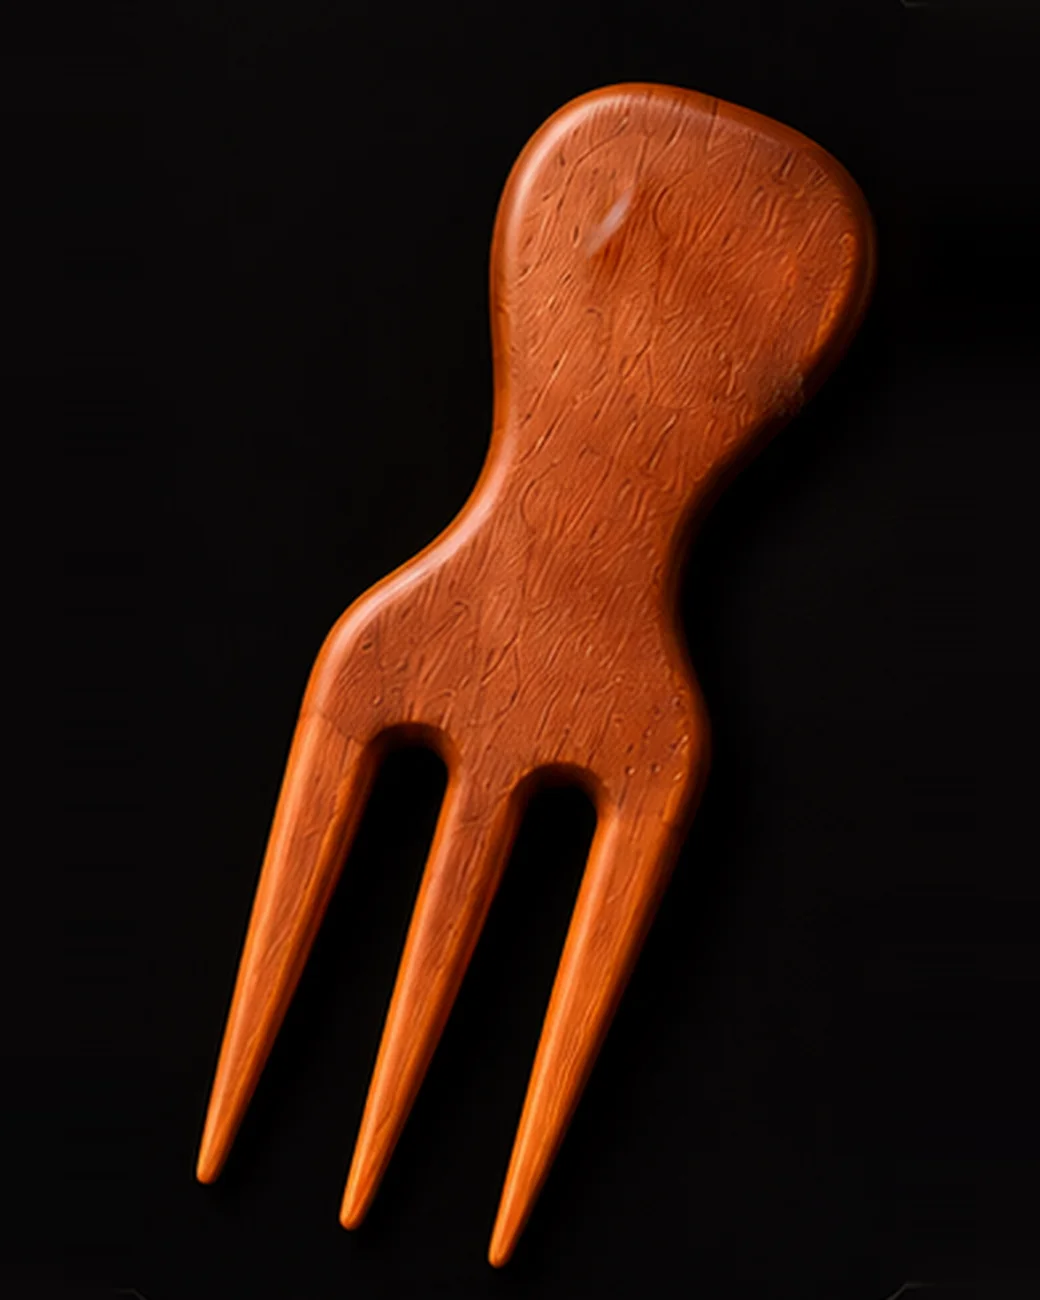
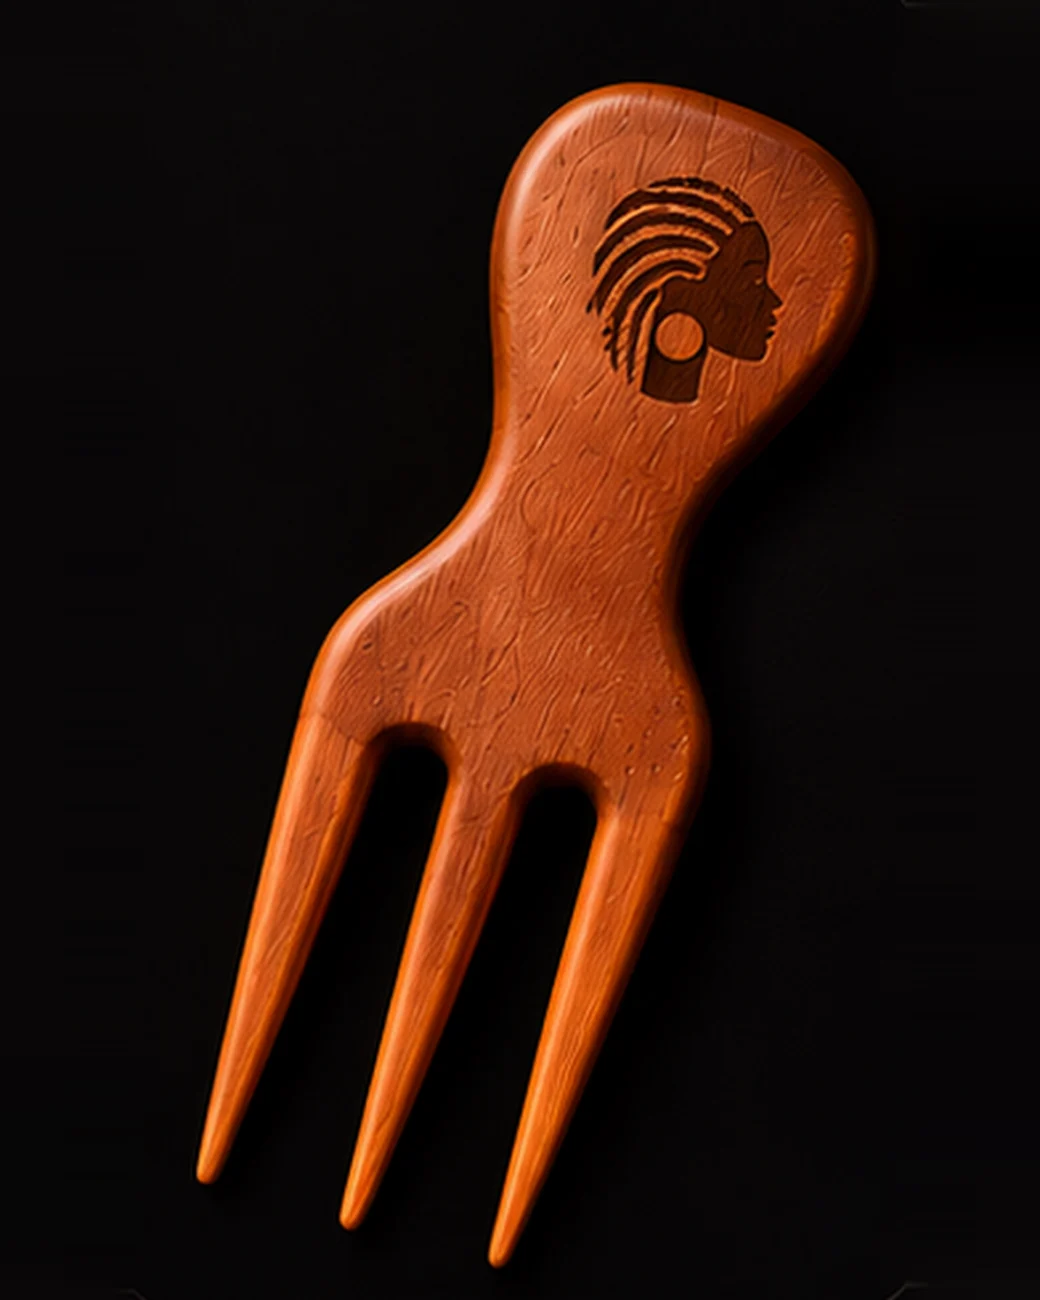
Ojú Gbooro: braided head mark, and restore the engraving on the comb
The braided head from the brand board, traced to vector, now leads the page
header, the homepage project card and the page favicon. The head engraved
on the òòyà comb was wrongly retouched out; it is back.

Claude-Session: https://claude.ai/code/session_01YLqUEQuXeiZPQu1JdJBMmC

Changed region(s): [[0.5538, 0.1231, 0.7692, 0.3385]]

diff --git a/oju-gbooro/index.html b/oju-gbooro/index.html
@@ -19,6 +19,7 @@
 <meta name="twitter:title" content="Ojú Gbooro · Yoruba hair heritage">
 <meta name="twitter:description" content="A living record of Yoruba hair craft, its practitioners, tools, techniques and people.">
 <meta name="twitter:image" content="https://pennio.agency/og-cover.jpg">
+<link rel="icon" href="/oju-gbooro/mark.svg" type="image/svg+xml">
 <link rel="icon" href="/favicon.ico" sizes="any">
 <link rel="preload" href="/fonts/inter-600.woff2" as="font" type="font/woff2" crossorigin>
 <style>/* Inter, hosted on this domain so it loads on slow or blocked networks. */@font-face{font-family:'Inter';font-style:normal;font-weight:300;font-display:swap;src:url('/fonts/inter-300.woff2') format('woff2')}@font-face{font-family:'Inter';font-style:normal;font-weight:400;font-display:swap;src:url('/fonts/inter-400.woff2') format('woff2')}@font-face{font-family:'Inter';font-style:normal;font-weight:500;font-display:swap;src:url('/fonts/inter-500.woff2') format('woff2')}@font-face{font-family:'Inter';font-style:normal;font-weight:600;font-display:swap;src:url('/fonts/inter-600.woff2') format('woff2')}@font-face{font-family:'Inter';font-style:normal;font-weight:700;font-display:swap;src:url('/fonts/inter-700.woff2') format('woff2')}@font-face{font-family:'Inter';font-style:normal;font-weight:800;font-display:swap;src:url('/fonts/inter-800.woff2') format('woff2')}</style>
@@ -36,7 +37,8 @@ body{background:var(--bg);color:var(--text);font-family:Inter,system-ui,sans-ser
 .part .end{fill:var(--bone)}
 .page>*:not(.part){position:relative;z-index:1}
 .top{display:flex;justify-content:space-between;align-items:center;min-height:68px}
-.brand{font-weight:600;font-size:14px;letter-spacing:.02em}
+.brand{font-weight:600;font-size:14px;letter-spacing:.02em;display:flex;align-items:center;gap:10px}
+.brand svg{height:34px;width:auto;flex:none}.brand .h{fill:var(--text)}.brand .k{fill:var(--bg)}.brand .e{fill:var(--orange)}
 .top a{color:var(--mute);font-size:13px;text-decoration:none;min-height:44px;display:inline-flex;align-items:center}
 .sec{padding:0 22px}
 .k{font-size:11px;letter-spacing:.18em;text-transform:uppercase;color:var(--wood);font-weight:600;display:flex;gap:10px;align-items:center}
@@ -100,7 +102,7 @@ footer a{color:var(--text)}
     <ellipse cx="-61" cy="0" rx="7.5" ry="6.6"/>
   </g><circle class="end" id="pEnd" r="4"/></svg>
 
-  <div class="top" data-line="start"><div class="brand">Ojú Gbooro</div><a href="#archive">The archive ↓</a></div>
+  <div class="top" data-line="start"><div class="brand"><svg viewBox="0 0 131.4 157.1" aria-hidden="true"><path class="h" fill-rule="evenodd" d="M9.8 71.0Q9.6 69.9 8.3 70.9Q7.0 71.9 4.5 76.6Q2.0 81.2 2.1 83.4Q2.1 85.6 3.0 89.4Q3.9 93.1 4.4 93.8Q4.9 94.5 5.1 94.4Q5.4 94.2 5.3 91.2Q5.2 88.2 6.2 86.0Q7.1 83.8 7.0 81.9Q6.9 80.1 7.3 78.4Q7.8 76.6 8.9 74.4Q10.0 72.1 9.8 71.0ZM44.3 12.3Q43.1 12.4 41.7 12.8Q40.2 13.2 38.9 14.3Q37.6 15.4 34.8 15.4Q32.0 15.4 30.2 16.7Q28.5 18.0 25.9 18.9Q23.2 19.9 22.3 21.6Q21.4 23.2 19.0 23.8Q16.6 24.2 15.7 24.9Q14.8 25.5 13.8 27.2Q12.9 28.9 13.2 30.0Q13.6 31.1 12.0 31.8Q10.4 32.4 9.2 33.8Q8.0 35.1 7.5 38.0Q7.0 40.9 5.9 43.6Q4.8 46.4 5.2 46.3Q5.8 46.2 7.3 43.8Q8.9 41.4 10.4 39.8Q12.0 38.2 12.7 36.9Q13.4 35.5 15.3 34.3Q17.2 33.1 20.1 30.2Q23.0 27.2 26.1 25.9Q29.1 24.6 30.5 23.3Q31.9 22.0 34.3 21.7Q36.8 21.4 38.9 20.2Q41.1 19.1 42.8 19.3Q44.5 19.5 46.4 18.6Q48.2 17.6 50.6 18.1Q53.0 18.6 54.0 18.3Q55.0 18.0 58.4 18.1Q61.8 18.1 63.2 19.1Q64.6 20.0 66.6 20.1Q68.6 20.1 70.2 21.2Q71.9 22.2 73.7 22.1Q75.5 22.0 77.0 23.4Q78.5 24.9 82.5 27.0Q86.5 29.1 89.2 32.1Q91.9 35.0 91.9 36.5Q92.0 38.0 91.1 39.1Q90.1 40.1 88.8 40.3Q87.5 40.5 85.5 39.9Q83.5 39.2 80.2 37.4Q76.9 35.5 75.9 35.4Q74.9 35.4 73.8 34.4Q72.8 33.5 71.1 33.4Q69.4 33.4 68.0 32.3Q66.6 31.2 64.7 31.5Q62.8 31.8 60.6 30.9Q58.5 30.1 57.2 30.7Q55.9 31.2 54.4 30.8Q52.9 30.4 51.1 31.0Q49.2 31.6 47.6 31.4Q46.0 31.2 42.1 32.2Q38.2 33.2 36.9 34.1Q35.6 34.9 33.3 35.5Q31.0 36.1 29.8 37.3Q28.5 38.5 26.4 38.9Q24.4 39.2 23.0 41.1Q21.6 43.0 19.3 44.2Q17.0 45.5 15.9 47.4Q14.9 49.4 12.9 50.6Q11.0 51.9 10.6 53.5Q10.2 55.1 8.8 56.5Q7.4 57.9 5.2 61.1Q3.1 64.2 2.8 67.2Q2.4 70.1 2.8 70.9Q3.2 71.6 3.8 71.6Q4.4 71.6 8.2 67.9Q12.0 64.2 15.0 59.9Q18.0 55.6 22.0 51.9Q26.0 48.2 27.8 47.5Q29.6 46.8 31.0 45.4Q32.4 44.1 34.7 43.6Q37.0 43.0 39.0 41.8Q41.0 40.5 42.6 40.6Q44.2 40.8 45.6 39.9Q47.0 39.0 48.8 39.2Q50.6 39.5 52.0 39.1Q53.4 38.6 55.3 38.9Q57.2 39.1 58.7 38.8Q60.1 38.5 61.2 39.3Q62.4 40.1 64.2 39.9Q66.0 39.6 67.4 40.4Q68.9 41.2 72.3 42.2Q75.8 43.1 76.8 44.1Q77.9 45.0 78.8 45.2Q79.8 45.5 81.2 47.1Q82.6 48.8 82.8 49.7Q83.0 50.6 82.1 51.8Q81.1 52.9 79.9 53.1Q78.8 53.4 70.6 51.4Q62.5 49.5 57.2 49.7Q51.9 49.9 48.8 50.7Q45.8 51.5 44.1 52.3Q42.5 53.1 41.3 53.2Q40.1 53.2 38.4 54.7Q36.8 56.1 35.1 56.5Q33.5 56.9 32.7 58.2Q31.9 59.5 29.8 60.9Q27.6 62.4 26.8 63.8Q25.9 65.2 23.4 67.8Q20.9 70.2 20.4 72.1Q19.9 73.9 18.2 75.9Q16.6 78.0 16.6 80.1Q16.5 82.2 14.8 84.4Q13.0 86.5 13.4 88.4Q13.8 90.2 12.4 92.4Q11.0 94.6 11.4 96.1Q11.8 97.5 10.4 100.3Q9.1 103.1 9.0 105.7Q8.9 108.2 9.3 109.8Q9.8 111.2 10.2 111.6Q10.8 112.0 12.1 108.3Q13.4 104.6 14.1 104.4Q14.8 104.1 14.3 110.8Q13.9 117.4 15.1 118.9Q16.2 120.4 15.6 123.1Q14.9 125.8 16.7 128.9Q18.5 132.0 19.5 132.8Q20.5 133.5 20.2 129.8Q19.9 126.0 19.1 124.0Q18.2 122.0 18.6 119.6Q19.0 117.2 18.4 114.8Q17.9 112.2 18.4 110.9Q18.9 109.6 18.4 107.4Q17.9 105.1 18.2 104.1Q18.6 103.1 18.7 100.3Q18.8 97.5 19.4 96.0Q20.1 94.5 20.1 93.3Q20.1 92.1 21.0 89.0Q21.9 85.9 24.2 81.1Q26.5 76.2 28.1 73.9Q29.6 71.6 31.3 70.2Q33.0 68.9 34.2 67.2Q35.4 65.6 36.6 65.1Q37.9 64.5 39.5 62.9Q41.1 61.4 42.6 61.1Q44.0 60.9 45.2 60.1Q46.4 59.2 49.3 58.2Q52.2 57.1 53.7 57.2Q55.1 57.4 57.8 56.8Q60.4 56.2 61.6 56.8Q62.9 57.2 64.5 57.2Q66.1 57.1 68.2 58.1Q70.4 59.0 71.8 59.2Q73.1 59.4 74.7 61.4Q76.2 63.5 75.8 64.6Q75.4 65.6 74.6 66.2Q73.9 66.9 72.2 67.1Q70.6 67.2 68.1 66.8Q65.6 66.2 64.1 66.8Q62.5 67.4 60.4 66.6Q58.2 65.8 56.3 66.1Q54.4 66.4 52.8 67.6Q51.2 68.9 50.3 70.4Q49.4 71.9 49.1 72.0Q48.8 72.1 48.2 71.4Q47.6 70.6 47.2 70.7Q46.9 70.8 42.1 75.0Q37.4 79.2 37.1 80.6Q36.9 81.9 34.9 83.8Q33.0 85.8 32.9 87.0Q32.8 88.2 31.3 90.6Q29.9 92.9 29.8 94.2Q29.8 95.5 28.9 97.2Q28.0 98.9 28.1 100.4Q28.1 101.9 27.6 103.1Q27.0 104.4 27.2 105.9Q27.4 107.5 26.6 109.8Q25.9 112.1 26.4 113.9Q27.0 115.8 26.4 118.6Q25.8 121.4 26.5 123.0Q27.2 124.6 27.1 127.7Q26.9 130.8 27.6 133.9Q28.2 137.0 28.2 139.2Q28.1 141.5 29.1 142.8Q30.1 144.1 32.4 145.4Q34.6 146.8 34.7 144.6Q34.8 142.5 34.1 141.2Q33.5 139.9 33.7 138.0Q33.9 136.1 33.1 134.4Q32.4 132.8 32.7 130.0Q33.0 127.2 32.4 125.9Q31.8 124.6 32.3 122.2Q32.9 119.9 32.2 118.2Q31.6 116.5 31.8 115.3Q31.9 114.1 32.4 113.1Q33.0 112.1 32.9 109.5Q32.8 106.9 33.4 105.6Q34.1 104.4 34.1 102.5Q34.1 100.6 35.2 98.6Q36.4 96.5 36.8 94.6Q37.1 92.6 40.9 87.5Q44.6 82.4 45.2 82.2Q45.8 82.1 46.1 83.0Q46.4 83.9 44.3 88.9Q42.2 93.9 41.4 100.1Q40.5 106.4 40.9 109.4Q41.2 112.5 39.9 123.1Q38.5 133.8 38.2 141.2Q38.0 148.6 40.9 150.2Q43.9 151.8 48.4 153.1Q52.9 154.4 57.0 154.8Q61.1 155.1 65.9 154.8Q70.6 154.5 73.0 153.9Q75.4 153.4 75.8 152.8Q76.2 152.2 76.4 147.9Q76.5 143.6 77.2 138.8Q77.9 133.9 79.7 127.4Q81.5 121.0 79.4 119.2Q77.2 117.5 74.7 120.6Q72.1 123.8 68.7 125.5Q65.2 127.2 61.5 127.4Q57.8 127.6 54.8 126.5Q51.8 125.4 49.1 122.9Q46.4 120.4 45.3 118.4Q44.2 116.5 43.8 114.6Q43.2 112.8 43.3 109.9Q43.4 107.1 44.2 104.8Q45.1 102.4 46.2 100.8Q47.2 99.1 49.1 97.3Q51.0 95.5 52.9 94.4Q54.9 93.4 57.1 92.9Q59.4 92.4 62.9 92.9Q66.4 93.4 69.1 94.9Q71.8 96.4 73.5 98.2Q75.2 100.1 76.5 102.7Q77.8 105.2 78.1 108.5Q78.4 111.8 79.7 112.9Q81.0 114.1 85.4 116.1Q89.9 118.1 96.2 120.1Q102.6 122.0 106.1 122.6Q109.5 123.2 111.9 123.1Q114.4 123.0 115.8 122.5Q117.2 122.0 118.5 120.8Q119.8 119.6 120.3 118.1Q120.9 116.5 120.6 112.7Q120.2 108.9 120.8 108.1Q121.4 107.4 123.0 106.7Q124.6 106.0 125.1 105.1Q125.5 104.1 125.2 103.1Q124.9 102.1 124.3 101.6Q123.8 101.1 121.0 101.3Q118.2 101.5 117.8 101.2Q117.2 100.9 117.7 100.2Q118.1 99.6 121.5 98.9Q124.9 98.2 125.6 97.5Q126.2 96.8 126.1 95.6Q126.0 94.5 124.6 92.2Q123.1 90.0 122.0 89.6Q120.9 89.2 120.9 88.7Q120.9 88.1 122.2 86.9Q123.5 85.8 124.7 86.1Q125.9 86.4 126.8 86.1Q127.6 85.9 128.3 85.1Q129.0 84.4 129.2 83.3Q129.4 82.2 128.8 81.2Q128.2 80.1 124.6 76.5Q121.0 72.9 119.8 70.7Q118.5 68.5 118.4 66.9Q118.4 65.2 119.4 59.9Q120.4 54.6 119.6 49.0Q118.8 43.4 116.8 38.8Q114.8 34.1 112.8 31.2Q110.8 28.4 109.6 27.4Q108.5 26.5 108.3 25.0Q108.1 23.5 107.4 22.4Q106.6 21.4 105.7 20.9Q104.8 20.4 104.0 21.7Q103.2 23.0 104.2 25.5Q105.1 28.0 102.1 29.1Q99.0 30.2 90.9 25.8Q82.9 21.4 81.4 19.8Q79.9 18.2 78.9 17.8Q77.9 17.4 76.5 17.6Q75.1 17.8 72.9 16.1Q70.6 14.4 68.8 14.2Q66.9 14.1 64.8 13.1Q62.8 12.0 61.8 12.1Q60.9 12.1 60.3 12.8Q59.8 13.5 56.6 12.4Q53.4 11.4 52.5 11.4Q51.6 11.4 50.0 12.2Q48.4 13.1 46.9 12.7Q45.5 12.2 44.3 12.3ZM118.0 56.8Q118.2 57.5 117.9 58.2Q117.6 59.0 114.5 58.0Q111.4 57.0 109.4 57.1Q107.5 57.2 105.0 58.2Q102.5 59.2 101.9 59.1Q101.4 59.0 101.5 58.5Q101.6 58.0 102.8 57.1Q104.0 56.1 107.1 55.0Q110.2 53.9 112.8 54.1Q115.2 54.2 116.5 55.1Q117.8 56.0 118.0 56.8ZM91.6 10.8Q90.0 10.4 89.8 11.2Q89.5 12.0 89.9 13.1Q90.2 14.2 92.0 16.0Q93.8 17.8 94.9 18.1Q96.1 18.5 97.9 20.5Q99.8 22.5 100.8 22.7Q101.8 22.9 102.1 20.7Q102.4 18.5 102.0 17.6Q101.6 16.8 100.2 15.7Q98.9 14.6 97.6 14.5Q96.2 14.4 94.8 12.8Q93.2 11.1 91.6 10.8ZM61.4 6.9Q61.9 6.4 59.9 4.8Q57.9 3.1 56.1 2.7Q54.4 2.2 51.9 3.1Q49.5 4.0 46.5 4.2Q43.5 4.4 42.2 5.1Q40.9 5.9 40.4 6.7Q39.9 7.5 42.9 7.7Q46.0 7.9 48.6 6.9Q51.1 6.0 56.1 6.7Q61.0 7.4 61.4 6.9ZM62.2 2.8Q61.8 3.2 63.4 5.1Q65.0 7.0 66.3 6.9Q67.6 6.9 69.4 7.9Q71.2 9.0 72.8 9.4Q74.2 9.8 74.9 9.6Q75.6 9.4 74.8 7.3Q74.0 5.2 72.6 4.2Q71.2 3.1 68.2 2.6Q65.1 2.0 63.9 2.2Q62.8 2.4 62.2 2.8Z"/><circle class="k" cx="60.8" cy="110.0" r="15.7"/><circle class="e" cx="60.8" cy="110.0" r="13.8"/></svg>Ojú Gbooro</div><a href="#archive">The archive ↓</a></div>
 
   <section class="sec hero" data-line="l">
     <div class="k"><i>01</i> Now casting</div>
@@ -123,7 +125,7 @@ footer a{color:var(--text)}
 
   <section class="sec greet" data-line="l" aria-labelledby="greetH">
     <div class="k" id="greetH"><i>02</i> The greeting</div>
-    <img class="ooya" src="comb.webp" width="1040" height="1300" alt="An òòyà: a carved wooden comb with three long teeth" loading="lazy" decoding="async">
+    <img class="ooya" src="comb.webp" width="1040" height="1300" alt="An òòyà: a carved wooden comb with three long teeth, the Ojú Gbooro head engraved on its handle" loading="lazy" decoding="async">
     <div class="say">
       <div><span>You say to the hairdresser</span><b lang="yo">Ojú gbooro</b></div>
       <div><span>The onídìrí answers</span><b lang="yo">Òòyà á yà</b></div>

diff --git a/index.html b/index.html
@@ -316,9 +316,8 @@ body { background: var(--bg); color: var(--fg); font-family: 'Inter', system-ui,
 
 .project-card-visual.oju{isolation:isolate}
 .project-card-visual.oju:after{content:"";position:absolute;inset:0;background:linear-gradient(180deg,rgba(10,7,7,.18),transparent 38%,rgba(10,7,7,.18));pointer-events:none;z-index:1}
-.project-card-visual .oju-comb-mark{position:absolute;z-index:2;right:20px;top:18px;width:74px;height:44px;overflow:visible;opacity:.96;filter:drop-shadow(0 2px 5px rgba(0,0,0,.3))}
-.project-card-visual .oju-comb-mark path,.project-card-visual .oju-comb-mark ellipse{fill:#1b1110;stroke:#d49b41;stroke-width:1.6;stroke-linejoin:round}
-.project-card-visual .oju-comb-mark .cut{fill:none;stroke:#d49b41;stroke-width:1}
+.project-card-visual .oju-mark{position:absolute;z-index:2;right:18px;top:16px;width:auto;height:56px;filter:drop-shadow(0 2px 6px rgba(0,0,0,.35))}
+.project-card-visual .oju-mark .h{fill:#F3ECE2}.project-card-visual .oju-mark .k{fill:#120d14}.project-card-visual .oju-mark .e{fill:#F26522}
 
 .project-card-visual.ere{background:radial-gradient(ellipse at 75% 20%,#563020 0%,#251713 40%,#100d0e 100%)}
 .project-card-visual.ere:before{content:"Eré";font-size:clamp(4.8rem,10vw,8rem);font-weight:700;letter-spacing:-.09em;color:#f3e6d7}
@@ -701,15 +700,7 @@ Your logo, your flyers, your labels, your shop front and your posts were made by
 <a class="project-card" href="/oju-gbooro/" aria-label="Explore Ojú Gbooro">
 <div class="project-card-visual oju">
 <img src="/oju-gbooro/portrait.webp" alt="A woman with her natural hair in two full puffs against an orange ground" loading="lazy" decoding="async">
-<svg class="oju-comb-mark" viewBox="-70 -16 78 32" role="img" aria-label="Ojú Gbooro three-tooth òòyà comb">
-<g>
-<path d="M-30 -8 L0 -6.2 L-30 -4.4 Z M-30 -1.8 L2 0 L-30 1.8 Z M-30 4.4 L0 6.2 L-30 8 Z"/>
-<path d="M-30 -8.6 L-47 -7 Q-50 -6.6 -50 -3.4 L-50 3.4 Q-50 6.6 -47 7 L-30 8.6 Z"/>
-<path class="cut" d="M-33.5 -5.6 L-33.5 5.6"/>
-<path d="M-50 -2.8 L-54 -2.4 L-54 2.4 L-50 2.8 Z"/>
-<ellipse cx="-61" cy="0" rx="7.5" ry="6.6"/>
-</g>
-</svg>
+<svg class="oju-mark" viewBox="0 0 131.4 157.1" role="img" aria-label="Ojú Gbooro braided head mark"><path class="h" fill-rule="evenodd" d="M9.8 71.0Q9.6 69.9 8.3 70.9Q7.0 71.9 4.5 76.6Q2.0 81.2 2.1 83.4Q2.1 85.6 3.0 89.4Q3.9 93.1 4.4 93.8Q4.9 94.5 5.1 94.4Q5.4 94.2 5.3 91.2Q5.2 88.2 6.2 86.0Q7.1 83.8 7.0 81.9Q6.9 80.1 7.3 78.4Q7.8 76.6 8.9 74.4Q10.0 72.1 9.8 71.0ZM44.3 12.3Q43.1 12.4 41.7 12.8Q40.2 13.2 38.9 14.3Q37.6 15.4 34.8 15.4Q32.0 15.4 30.2 16.7Q28.5 18.0 25.9 18.9Q23.2 19.9 22.3 21.6Q21.4 23.2 19.0 23.8Q16.6 24.2 15.7 24.9Q14.8 25.5 13.8 27.2Q12.9 28.9 13.2 30.0Q13.6 31.1 12.0 31.8Q10.4 32.4 9.2 33.8Q8.0 35.1 7.5 38.0Q7.0 40.9 5.9 43.6Q4.8 46.4 5.2 46.3Q5.8 46.2 7.3 43.8Q8.9 41.4 10.4 39.8Q12.0 38.2 12.7 36.9Q13.4 35.5 15.3 34.3Q17.2 33.1 20.1 30.2Q23.0 27.2 26.1 25.9Q29.1 24.6 30.5 23.3Q31.9 22.0 34.3 21.7Q36.8 21.4 38.9 20.2Q41.1 19.1 42.8 19.3Q44.5 19.5 46.4 18.6Q48.2 17.6 50.6 18.1Q53.0 18.6 54.0 18.3Q55.0 18.0 58.4 18.1Q61.8 18.1 63.2 19.1Q64.6 20.0 66.6 20.1Q68.6 20.1 70.2 21.2Q71.9 22.2 73.7 22.1Q75.5 22.0 77.0 23.4Q78.5 24.9 82.5 27.0Q86.5 29.1 89.2 32.1Q91.9 35.0 91.9 36.5Q92.0 38.0 91.1 39.1Q90.1 40.1 88.8 40.3Q87.5 40.5 85.5 39.9Q83.5 39.2 80.2 37.4Q76.9 35.5 75.9 35.4Q74.9 35.4 73.8 34.4Q72.8 33.5 71.1 33.4Q69.4 33.4 68.0 32.3Q66.6 31.2 64.7 31.5Q62.8 31.8 60.6 30.9Q58.5 30.1 57.2 30.7Q55.9 31.2 54.4 30.8Q52.9 30.4 51.1 31.0Q49.2 31.6 47.6 31.4Q46.0 31.2 42.1 32.2Q38.2 33.2 36.9 34.1Q35.6 34.9 33.3 35.5Q31.0 36.1 29.8 37.3Q28.5 38.5 26.4 38.9Q24.4 39.2 23.0 41.1Q21.6 43.0 19.3 44.2Q17.0 45.5 15.9 47.4Q14.9 49.4 12.9 50.6Q11.0 51.9 10.6 53.5Q10.2 55.1 8.8 56.5Q7.4 57.9 5.2 61.1Q3.1 64.2 2.8 67.2Q2.4 70.1 2.8 70.9Q3.2 71.6 3.8 71.6Q4.4 71.6 8.2 67.9Q12.0 64.2 15.0 59.9Q18.0 55.6 22.0 51.9Q26.0 48.2 27.8 47.5Q29.6 46.8 31.0 45.4Q32.4 44.1 34.7 43.6Q37.0 43.0 39.0 41.8Q41.0 40.5 42.6 40.6Q44.2 40.8 45.6 39.9Q47.0 39.0 48.8 39.2Q50.6 39.5 52.0 39.1Q53.4 38.6 55.3 38.9Q57.2 39.1 58.7 38.8Q60.1 38.5 61.2 39.3Q62.4 40.1 64.2 39.9Q66.0 39.6 67.4 40.4Q68.9 41.2 72.3 42.2Q75.8 43.1 76.8 44.1Q77.9 45.0 78.8 45.2Q79.8 45.5 81.2 47.1Q82.6 48.8 82.8 49.7Q83.0 50.6 82.1 51.8Q81.1 52.9 79.9 53.1Q78.8 53.4 70.6 51.4Q62.5 49.5 57.2 49.7Q51.9 49.9 48.8 50.7Q45.8 51.5 44.1 52.3Q42.5 53.1 41.3 53.2Q40.1 53.2 38.4 54.7Q36.8 56.1 35.1 56.5Q33.5 56.9 32.7 58.2Q31.9 59.5 29.8 60.9Q27.6 62.4 26.8 63.8Q25.9 65.2 23.4 67.8Q20.9 70.2 20.4 72.1Q19.9 73.9 18.2 75.9Q16.6 78.0 16.6 80.1Q16.5 82.2 14.8 84.4Q13.0 86.5 13.4 88.4Q13.8 90.2 12.4 92.4Q11.0 94.6 11.4 96.1Q11.8 97.5 10.4 100.3Q9.1 103.1 9.0 105.7Q8.9 108.2 9.3 109.8Q9.8 111.2 10.2 111.6Q10.8 112.0 12.1 108.3Q13.4 104.6 14.1 104.4Q14.8 104.1 14.3 110.8Q13.9 117.4 15.1 118.9Q16.2 120.4 15.6 123.1Q14.9 125.8 16.7 128.9Q18.5 132.0 19.5 132.8Q20.5 133.5 20.2 129.8Q19.9 126.0 19.1 124.0Q18.2 122.0 18.6 119.6Q19.0 117.2 18.4 114.8Q17.9 112.2 18.4 110.9Q18.9 109.6 18.4 107.4Q17.9 105.1 18.2 104.1Q18.6 103.1 18.7 100.3Q18.8 97.5 19.4 96.0Q20.1 94.5 20.1 93.3Q20.1 92.1 21.0 89.0Q21.9 85.9 24.2 81.1Q26.5 76.2 28.1 73.9Q29.6 71.6 31.3 70.2Q33.0 68.9 34.2 67.2Q35.4 65.6 36.6 65.1Q37.9 64.5 39.5 62.9Q41.1 61.4 42.6 61.1Q44.0 60.9 45.2 60.1Q46.4 59.2 49.3 58.2Q52.2 57.1 53.7 57.2Q55.1 57.4 57.8 56.8Q60.4 56.2 61.6 56.8Q62.9 57.2 64.5 57.2Q66.1 57.1 68.2 58.1Q70.4 59.0 71.8 59.2Q73.1 59.4 74.7 61.4Q76.2 63.5 75.8 64.6Q75.4 65.6 74.6 66.2Q73.9 66.9 72.2 67.1Q70.6 67.2 68.1 66.8Q65.6 66.2 64.1 66.8Q62.5 67.4 60.4 66.6Q58.2 65.8 56.3 66.1Q54.4 66.4 52.8 67.6Q51.2 68.9 50.3 70.4Q49.4 71.9 49.1 72.0Q48.8 72.1 48.2 71.4Q47.6 70.6 47.2 70.7Q46.9 70.8 42.1 75.0Q37.4 79.2 37.1 80.6Q36.9 81.9 34.9 83.8Q33.0 85.8 32.9 87.0Q32.8 88.2 31.3 90.6Q29.9 92.9 29.8 94.2Q29.8 95.5 28.9 97.2Q28.0 98.9 28.1 100.4Q28.1 101.9 27.6 103.1Q27.0 104.4 27.2 105.9Q27.4 107.5 26.6 109.8Q25.9 112.1 26.4 113.9Q27.0 115.8 26.4 118.6Q25.8 121.4 26.5 123.0Q27.2 124.6 27.1 127.7Q26.9 130.8 27.6 133.9Q28.2 137.0 28.2 139.2Q28.1 141.5 29.1 142.8Q30.1 144.1 32.4 145.4Q34.6 146.8 34.7 144.6Q34.8 142.5 34.1 141.2Q33.5 139.9 33.7 138.0Q33.9 136.1 33.1 134.4Q32.4 132.8 32.7 130.0Q33.0 127.2 32.4 125.9Q31.8 124.6 32.3 122.2Q32.9 119.9 32.2 118.2Q31.6 116.5 31.8 115.3Q31.9 114.1 32.4 113.1Q33.0 112.1 32.9 109.5Q32.8 106.9 33.4 105.6Q34.1 104.4 34.1 102.5Q34.1 100.6 35.2 98.6Q36.4 96.5 36.8 94.6Q37.1 92.6 40.9 87.5Q44.6 82.4 45.2 82.2Q45.8 82.1 46.1 83.0Q46.4 83.9 44.3 88.9Q42.2 93.9 41.4 100.1Q40.5 106.4 40.9 109.4Q41.2 112.5 39.9 123.1Q38.5 133.8 38.2 141.2Q38.0 148.6 40.9 150.2Q43.9 151.8 48.4 153.1Q52.9 154.4 57.0 154.8Q61.1 155.1 65.9 154.8Q70.6 154.5 73.0 153.9Q75.4 153.4 75.8 152.8Q76.2 152.2 76.4 147.9Q76.5 143.6 77.2 138.8Q77.9 133.9 79.7 127.4Q81.5 121.0 79.4 119.2Q77.2 117.5 74.7 120.6Q72.1 123.8 68.7 125.5Q65.2 127.2 61.5 127.4Q57.8 127.6 54.8 126.5Q51.8 125.4 49.1 122.9Q46.4 120.4 45.3 118.4Q44.2 116.5 43.8 114.6Q43.2 112.8 43.3 109.9Q43.4 107.1 44.2 104.8Q45.1 102.4 46.2 100.8Q47.2 99.1 49.1 97.3Q51.0 95.5 52.9 94.4Q54.9 93.4 57.1 92.9Q59.4 92.4 62.9 92.9Q66.4 93.4 69.1 94.9Q71.8 96.4 73.5 98.2Q75.2 100.1 76.5 102.7Q77.8 105.2 78.1 108.5Q78.4 111.8 79.7 112.9Q81.0 114.1 85.4 116.1Q89.9 118.1 96.2 120.1Q102.6 122.0 106.1 122.6Q109.5 123.2 111.9 123.1Q114.4 123.0 115.8 122.5Q117.2 122.0 118.5 120.8Q119.8 119.6 120.3 118.1Q120.9 116.5 120.6 112.7Q120.2 108.9 120.8 108.1Q121.4 107.4 123.0 106.7Q124.6 106.0 125.1 105.1Q125.5 104.1 125.2 103.1Q124.9 102.1 124.3 101.6Q123.8 101.1 121.0 101.3Q118.2 101.5 117.8 101.2Q117.2 100.9 117.7 100.2Q118.1 99.6 121.5 98.9Q124.9 98.2 125.6 97.5Q126.2 96.8 126.1 95.6Q126.0 94.5 124.6 92.2Q123.1 90.0 122.0 89.6Q120.9 89.2 120.9 88.7Q120.9 88.1 122.2 86.9Q123.5 85.8 124.7 86.1Q125.9 86.4 126.8 86.1Q127.6 85.9 128.3 85.1Q129.0 84.4 129.2 83.3Q129.4 82.2 128.8 81.2Q128.2 80.1 124.6 76.5Q121.0 72.9 119.8 70.7Q118.5 68.5 118.4 66.9Q118.4 65.2 119.4 59.9Q120.4 54.6 119.6 49.0Q118.8 43.4 116.8 38.8Q114.8 34.1 112.8 31.2Q110.8 28.4 109.6 27.4Q108.5 26.5 108.3 25.0Q108.1 23.5 107.4 22.4Q106.6 21.4 105.7 20.9Q104.8 20.4 104.0 21.7Q103.2 23.0 104.2 25.5Q105.1 28.0 102.1 29.1Q99.0 30.2 90.9 25.8Q82.9 21.4 81.4 19.8Q79.9 18.2 78.9 17.8Q77.9 17.4 76.5 17.6Q75.1 17.8 72.9 16.1Q70.6 14.4 68.8 14.2Q66.9 14.1 64.8 13.1Q62.8 12.0 61.8 12.1Q60.9 12.1 60.3 12.8Q59.8 13.5 56.6 12.4Q53.4 11.4 52.5 11.4Q51.6 11.4 50.0 12.2Q48.4 13.1 46.9 12.7Q45.5 12.2 44.3 12.3ZM118.0 56.8Q118.2 57.5 117.9 58.2Q117.6 59.0 114.5 58.0Q111.4 57.0 109.4 57.1Q107.5 57.2 105.0 58.2Q102.5 59.2 101.9 59.1Q101.4 59.0 101.5 58.5Q101.6 58.0 102.8 57.1Q104.0 56.1 107.1 55.0Q110.2 53.9 112.8 54.1Q115.2 54.2 116.5 55.1Q117.8 56.0 118.0 56.8ZM91.6 10.8Q90.0 10.4 89.8 11.2Q89.5 12.0 89.9 13.1Q90.2 14.2 92.0 16.0Q93.8 17.8 94.9 18.1Q96.1 18.5 97.9 20.5Q99.8 22.5 100.8 22.7Q101.8 22.9 102.1 20.7Q102.4 18.5 102.0 17.6Q101.6 16.8 100.2 15.7Q98.9 14.6 97.6 14.5Q96.2 14.4 94.8 12.8Q93.2 11.1 91.6 10.8ZM61.4 6.9Q61.9 6.4 59.9 4.8Q57.9 3.1 56.1 2.7Q54.4 2.2 51.9 3.1Q49.5 4.0 46.5 4.2Q43.5 4.4 42.2 5.1Q40.9 5.9 40.4 6.7Q39.9 7.5 42.9 7.7Q46.0 7.9 48.6 6.9Q51.1 6.0 56.1 6.7Q61.0 7.4 61.4 6.9ZM62.2 2.8Q61.8 3.2 63.4 5.1Q65.0 7.0 66.3 6.9Q67.6 6.9 69.4 7.9Q71.2 9.0 72.8 9.4Q74.2 9.8 74.9 9.6Q75.6 9.4 74.8 7.3Q74.0 5.2 72.6 4.2Q71.2 3.1 68.2 2.6Q65.1 2.0 63.9 2.2Q62.8 2.4 62.2 2.8Z"/><circle class="k" cx="60.8" cy="110.0" r="15.7"/><circle class="e" cx="60.8" cy="110.0" r="13.8"/></svg>
 </div>
 <div class="project-card-meta"><div><div class="project-card-type">Culture · Living archive</div><div class="project-card-title">Ojú Gbooro</div><p class="project-card-copy">A living record of Yoruba hair knowledge, tools, practitioners and techniques.</p></div><span class="project-card-arrow" aria-hidden="true">↗</span></div>
 </a>
